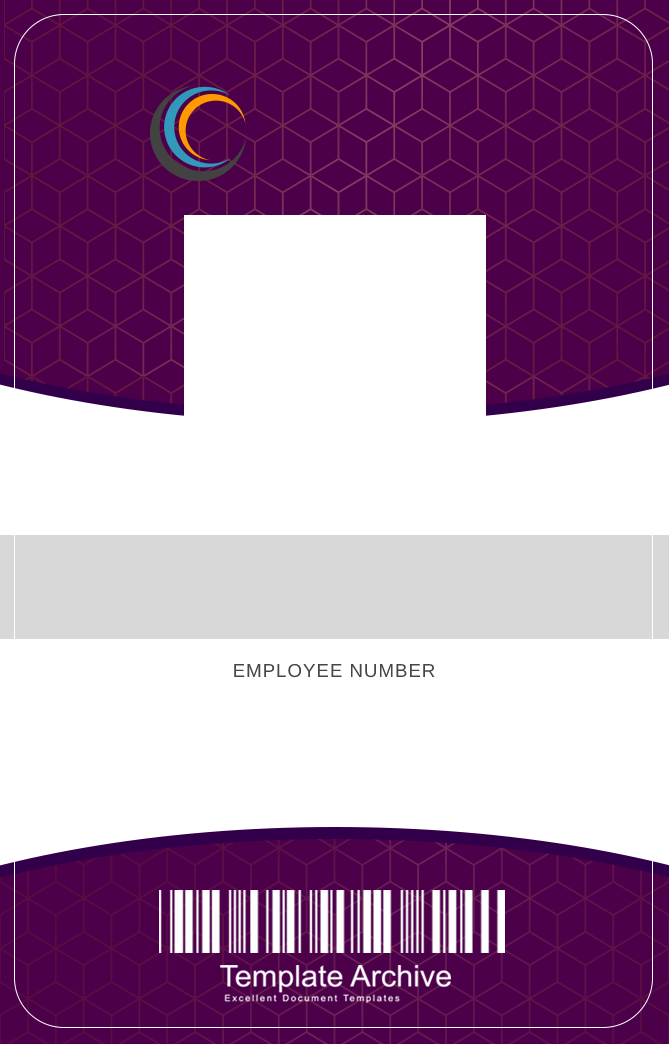
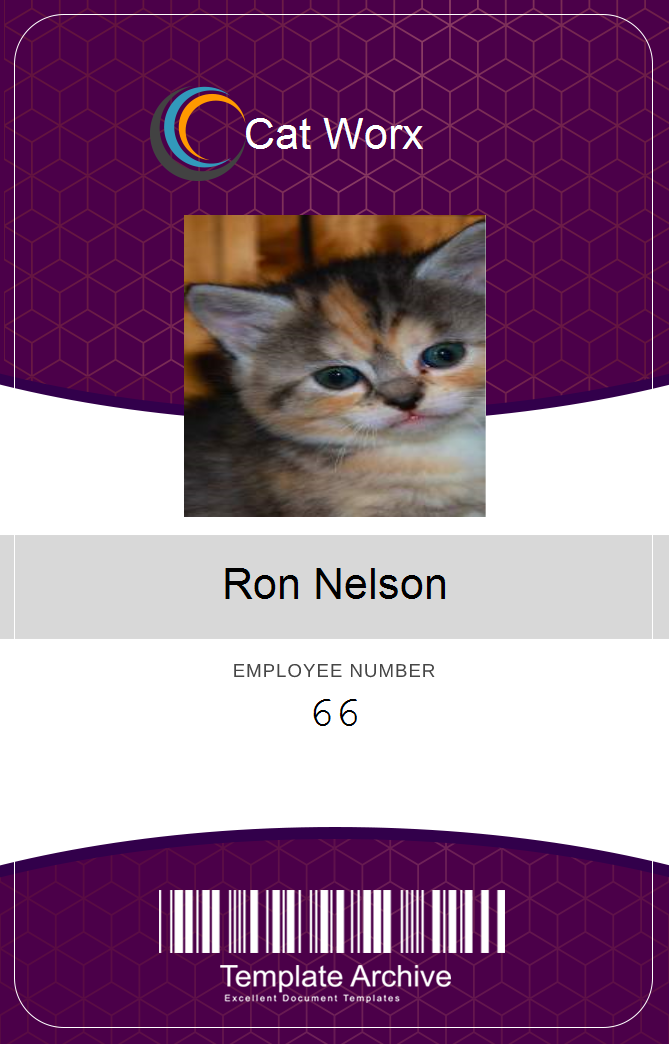
printed graphics to employee tag

Changed region(s): [[0.2691, 0.1839, 0.7474, 0.5824], [0.3587, 0.092, 0.6278, 0.1533], [0.4484, 0.6743, 0.5381, 0.705]]

diff --git a/CatWorx.BadgeMaker/Util.cs b/CatWorx.BadgeMaker/Util.cs
@@ -5,7 +5,7 @@ using System.IO; // lets us use the Directory class
 using System.Collections.Generic;
 using System.Drawing; // lets us use the Image class
 using System.Net; // lets us use the WebClient class
-
+using System.Runtime.Serialization;
 
 namespace CatWorx.BadgeMaker
 {
@@ -73,6 +73,15 @@ namespace CatWorx.BadgeMaker
       Image newImage = Image.FromFile("badge.png");
       newImage.Save("data/employeeBadge.png");
 
+      // graphics objects
+      StringFormat format = new StringFormat();
+      format.Alignment = StringAlignment.Center;
+      int FONT_SIZE = 32;
+      Font font = new Font("Arial", FONT_SIZE);
+      Font monoFont = new Font("Courier New", FONT_SIZE);
+
+      SolidBrush brush = new SolidBrush(Color.Black);
+
       // instance of WebClient is disposed after code in the block has run
       using(WebClient client = new WebClient()) {
         // access and iterate through employee information
@@ -89,6 +98,43 @@ namespace CatWorx.BadgeMaker
           graphic.DrawImage(background, new Rectangle(0, 0, BADGE_WIDTH, BADGE_HEIGHT));
           // insert the employee photo
           graphic.DrawImage(photo, new Rectangle(PHOTO_START_X, PHOTO_START_Y, PHOTO_WIDTH, PHOTO_HEIGHT));
+          // company name
+          // draw the specified text string in the specified Reactangle
+          graphic.DrawString(employees[i].GetCompanyName(), font, new SolidBrush(Color.White), new Rectangle(
+            COMPANY_NAME_START_X,
+            COMPANY_NAME_START_Y,
+            BADGE_WIDTH,
+            COMPANY_NAME_WIDTH
+          ),
+          format
+          );
+          // employee name
+          graphic.DrawString(
+            employees[i].GetName(),
+            font,
+            brush,
+            new Rectangle(
+              EMPLOYEE_NAME_START_X,
+              EMPLOYEE_NAME_START_Y,
+              BADGE_WIDTH,
+              EMPLOYEE_NAME_HEIGHT
+            ),
+            format
+          );
+          // employee ID
+          graphic.DrawString(
+            employees[i].GetId().ToString(),
+            monoFont,
+            brush,
+            new Rectangle(
+              EMPLOYEE_ID_START_X,
+              EMPLOYEE_ID_START_Y,
+              EMPLOYEE_ID_WIDTH,
+              EMPLOYEE_ID_HEIGHT
+            ),
+            format
+          );
+          badge.Save("data/employeeBadge.png");
         }
       }
     }

diff --git a/CatWorx.BadgeMaker/Employee.cs b/CatWorx.BadgeMaker/Employee.cs
@@ -27,5 +27,9 @@ namespace CatWorx.BadgeMaker
     public string? GetPhotoUrl() {
       return PhotoUrl;
     }
+
+    public string GetCompanyName() {
+      return "Cat Worx";
+    }
   }
 }
